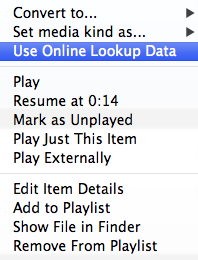
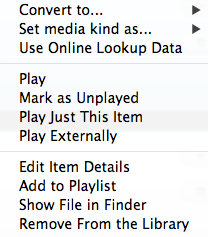
updated images

diff --git a/centralconf.py b/centralconf.py
@@ -59,10 +59,17 @@ html_theme = 'default'
 # further.  For a list of options available for each theme, see the
 # documentation.
 html_theme_options = {
-    'headbgcolor': '#fdeded',
+    'headbgcolor': '#f7be81',
     'footerbgcolor': '#b11818',
     'sidebarbgcolor': '#6a0000',
     'relbarbgcolor': '#b11818',
+    'rightsidebar': 'true',
+#   'headbgcolor': '#f7be81',
+#    'footerbgcolor': '#8c001a',
+#    'sidebarbgcolor': '#cd5c5c',
+#    'relbarbgcolor': '#8c001a',
+#    'rightsidebar': 'true',
+    'bgcolor': '#f5f5f5',
     }
 
 # Add any paths that contain custom themes here, relative to this directory.
@@ -131,7 +138,7 @@ htmlhelp_basename = 'MiroUserManualdoc'
 # Grouping the document tree into LaTeX files. List of tuples
 # (source start file, target name, title, author, documentclass [howto/manual]).
 latex_documents = [
-  ('index', 'MiroUserManual.tex', u'User Manual for Miro 4.0',
+  ('index', 'MiroUserManual.tex', u'User Manual for Miro 5.0',
    u'Will Kahn-Greene', 'manual'),
 ]
 

diff --git a/en/organizing.rst b/en/organizing.rst
@@ -1,16 +1,13 @@
-=======================
- Organizing your media
-=======================
-
-.. index:: organizing
-
-.. _organizing-chapter:
 
 =================================
  Organizing Music and Video Items
 =================================
 
-This chapter organizing music and video files in Miro.
+.. index:: organizing
+
+.. _organizing-chapter:
+
+This chapter tells you how you can use Miro to organize your music and video file.
 
 
 Edit Metadata Panel
@@ -23,8 +20,8 @@ The dialog is accessible via the menus.  The menu option is activated when eithe
 
 Open the *Edit Metadata* panel:
 
-
 Select 1 or several items then use one of the methods below to open the panel:
+
 1. Right-click context menu
 2. Item context menu
 3. File -> Edit Item
@@ -66,6 +63,7 @@ Editing Item Type
 =================
 
 Items are automatically catagorized by miro as:
+
 1. Music
 2. Video
 3. Misc
@@ -75,6 +73,7 @@ Files are displayed in the corresponding library tab.
 In the case that Miro metadata processes have mis-categorized an item, the user can manually change the item type setting either by dragging the item to the tab that represents the desired file type, or by editing it via the Edit Item Details panel.
 
 To change a file type:
+
 1. Click on the item or items
 2. Drag and Drop them into the Sidebar tab the represents the choosen type.
 
@@ -85,6 +84,7 @@ Video Kind
 ==========
 
 **Video Kind** is a user specified metadata field. The **Videos** sidebar tab has filters for:
+
 1. Movies
 2. Shows
 3. Clips
@@ -94,7 +94,7 @@ Video Kind
    Screenshot of the Videos tab filters
 
 .. image:: _static/video_tab_filters.png
-   :width: 600px
+   :width: 300px
 
 
 To edit the Video Kind using a menu option:
@@ -131,11 +131,11 @@ When installing Miro for the first time:  an option to turn on lookup is provide
 
 .. image:: _static/organizing_install_music_setup.png
 
-Clicking **Music** tab are upgrade from pre-5.0 version
--------------------------------------------------------
+Clicking **Music** tab after upgrading from Miro 4 or earlier
+-------------------------------------------------------------
 
 If Miro is upgraded from a version earlier than Miro 5.0.  The first time the **Music** tab is
-clicked, a dialog display asking to use the song info lookup.
+clicked, a dialog is displayed and asks the user if they want to use the song info lookup.
 
 
 .. SCREENSHOT
@@ -144,13 +144,13 @@ clicked, a dialog display asking to use the song info lookup.
 .. image:: _static/organizing_first_time_music_clicked.png
 
 
-Turning *on* / *off* Lookup from the Preferences Panel
+Turning *On* / *Off* Lookup from the Preferences Panel
 ------------------------------------------------------
 
 The **Preferences Panel** *General tab* controls turning metadata lookup on and off for all audio files
 or for newly added music files. 
 
-This is covered in: ref:`configuring-chapter`.
+This is covered in :ref:`configuring-chapter`. 
 
 To run lookup for all audio files:
     Click *Run Online Lookup for All Current Music*
@@ -169,7 +169,7 @@ To lookup information for all newly added items:
 
 
 
-Toggling *on* and *off* Lookup from the File Menu
+Toggling *On* and *Off* Lookup from the File Menu
 -------------------------------------------------
 
 To toggle the use of echonest data for one or a few items:
@@ -182,32 +182,22 @@ To toggle the use of echonest data for one or a few items:
    Screenshot of the first time music clicked
 
 .. image:: _static/organizing_lookup_file_menu.png
-   :width: 600px
+   :width: 500px
 
 
-Toggling *on* and *off* Lookup from the Context Menu
+Toggling *On* and *Off* Lookup from the Context Menu
 ----------------------------------------------------
 
 To toggle the use of echonest data for one or a few items:
 
 1. Select the item or items
 2. Open the *context* menu
-3. Choose *Use album art and song info from online lookup database (Echonest)
+3. Choose *[Don't] Use Online Lookup Data*
 
 .. SCREENSHOT
    Screenshot of the first time music clicked
 
 .. image:: _static/organizing_context_lookup_on.png
-   :width: 600px
-
-4. Choose *Don't Use Online Lookup Data* to toggle the setting off.
-
-.. SCREENSHOT
-   Screenshot of the first time music clicked
-
-.. image:: _static/organizing_context_lookup_off.png
-   :width: 600px
-
-
+   :width: 200px
 
 

diff --git a/en/index.rst b/en/index.rst
@@ -21,6 +21,7 @@ Welcome to the User Manual for Miro |version|!  Last updated |today|.
    interface
    podcasts 
    downloading
+   organizing
    playing
    searching
    converting
